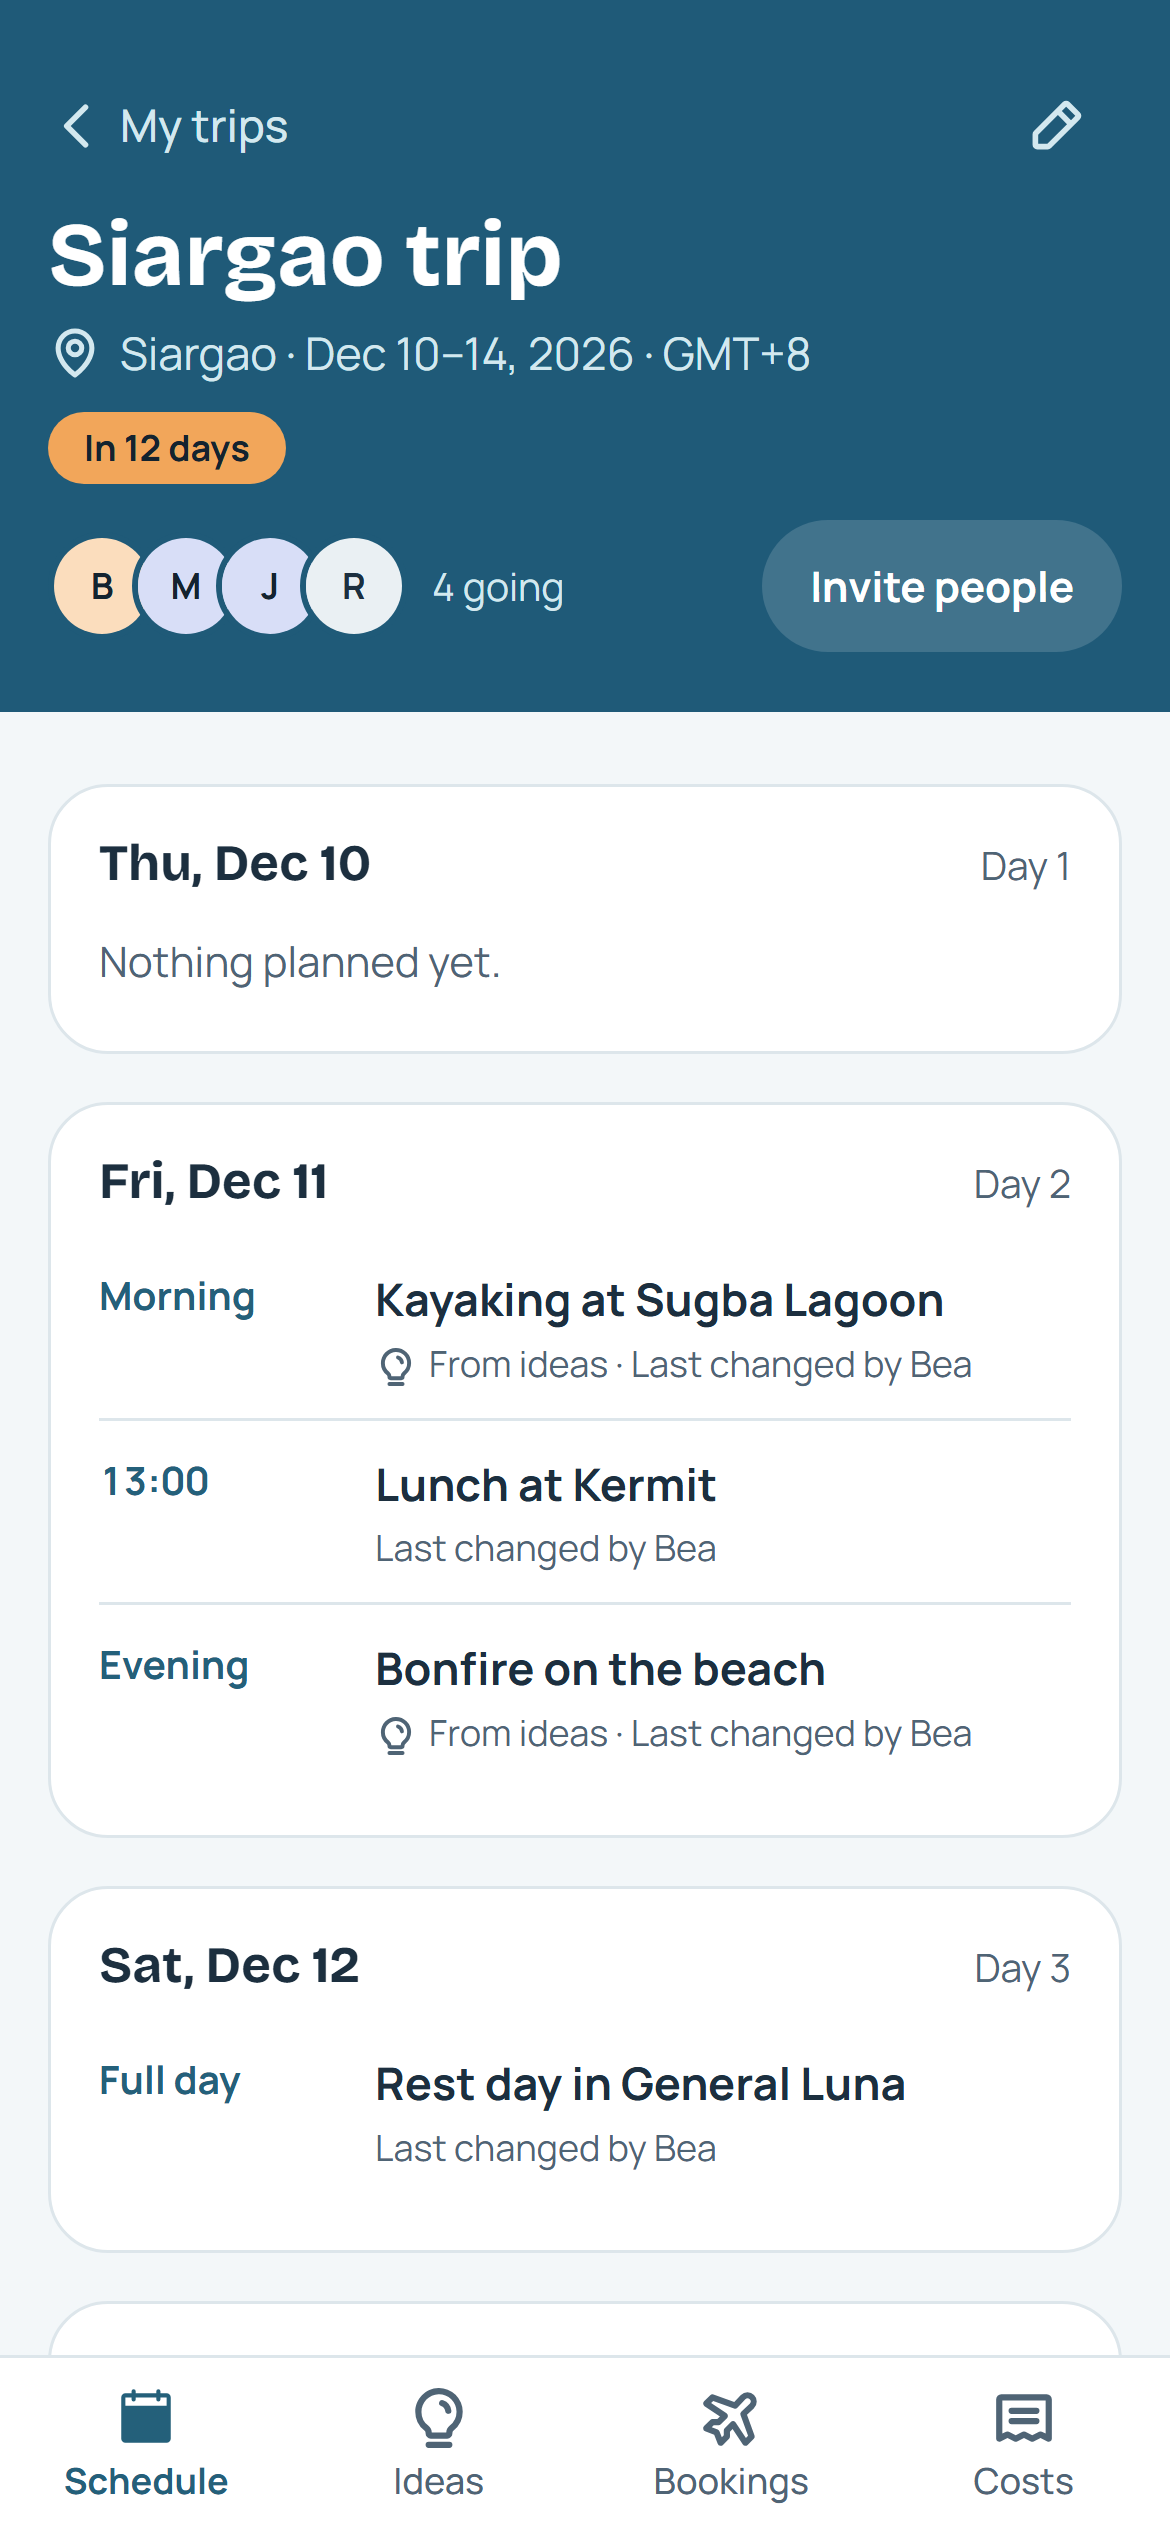
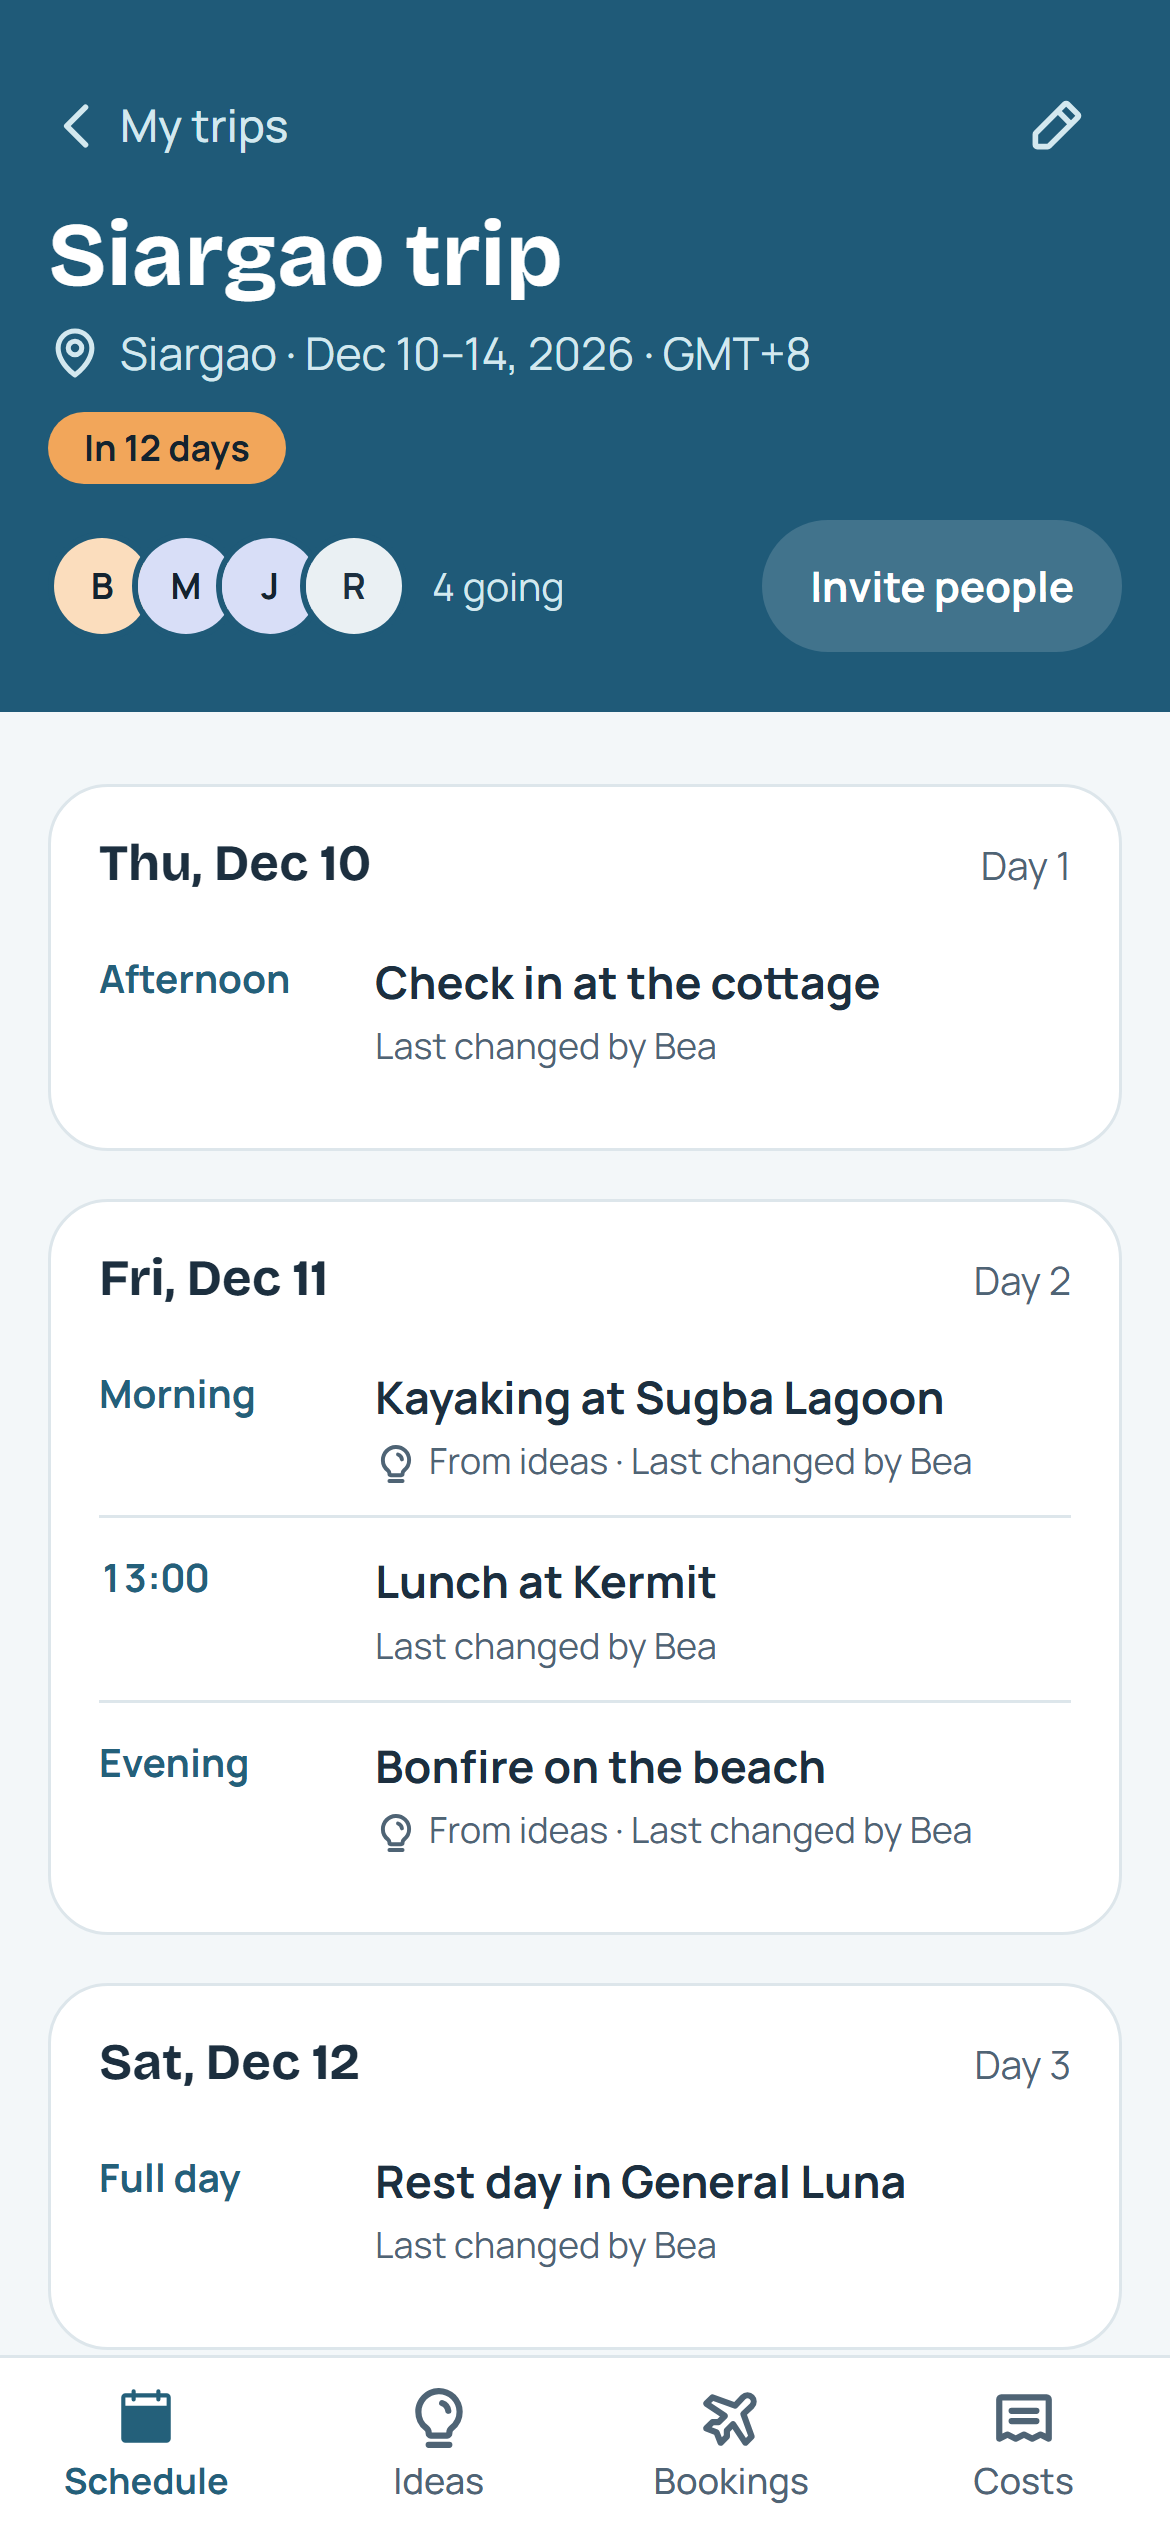
feat(home): refresh screenshots 01 and 04 with a Day 1 item

diff --git a/src/app/page.tsx b/src/app/page.tsx
@@ -35,7 +35,7 @@ const LEGS: { id: string; label: string; title: string; steps: Step[] }[] = [
         headline: "Start a trip in a minute.",
         line: "Give it a name and dates, and the money's in pesos unless you say so.",
         image: shotTrip,
-        alt: "Trip header for Siargao trip with its dates and four people going, above the Schedule tab",
+        alt: "Trip header for Siargao trip with its dates and four people going, above the Schedule tab with a check-in on Day 1",
       },
       {
         number: "02",
@@ -56,7 +56,7 @@ const LEGS: { id: string; label: string; title: string; steps: Step[] }[] = [
         headline: "One card per day, so nobody has to ask what time.",
         line: "Approved ideas drop into their day, in the trip's own time zone.",
         image: shotSchedule,
-        alt: "Schedule tab with a card for each day, and Day 2 holding a morning, a 13:00 and an evening item",
+        alt: "Schedule tab with a card for each day: a check-in on Day 1 and a morning, a 13:00 and an evening item on Day 2",
       },
     ],
   },
